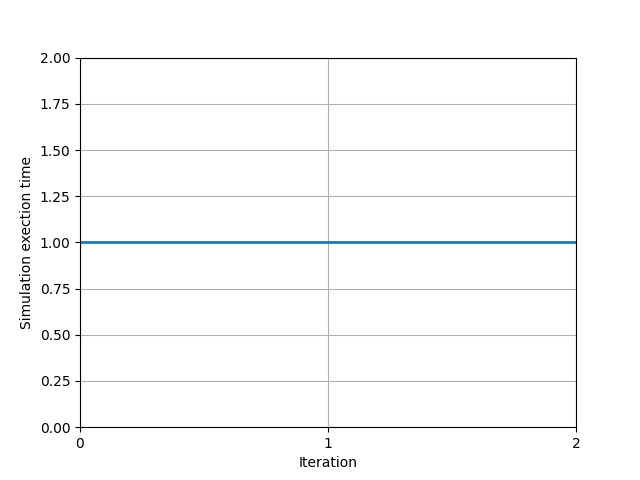
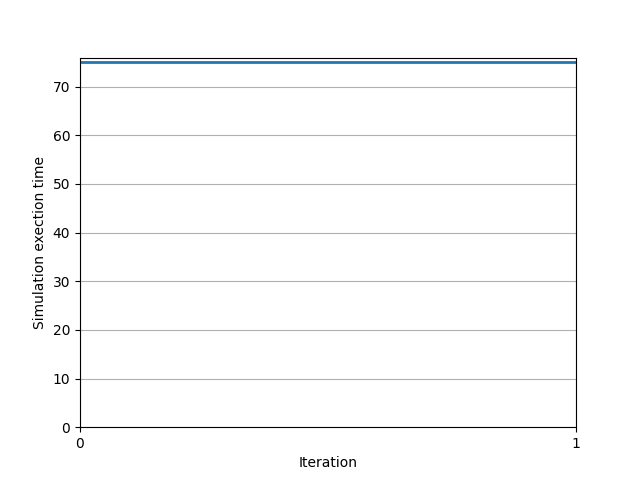
averge mean from predefined output path is set

diff --git a/src/tools/coordinator.py b/src/tools/coordinator.py
@@ -1,3 +1,7 @@
+from tools.logger import logger
+from tools.config_reader import Config
+from pathlib import Path
+
 import argparse
 import os
 import shutil
@@ -10,20 +14,17 @@ sys.path.append('/workspaces/hyper-heuristic-dse-2.0/src/external/simulation_mod
 import experiments
 import experiment_campaign
 
-from logger import logger
-from config_reader import Config
-
 
 class HeuristicSimulationCoordinator:
     
     def __init__(self, config_path):
         
         # Set up the logger.
-        self.logger = ("coordinator", "/workspaces/hyper-heuristic-dse-2.0/data/raw/heuristic_run/logs")
+        self.logger = logger("coordinator", Path("/workspaces/hyper-heuristic-dse-2.0/data/raw/heuristic_run/logs"))
 
         # Read the config file.
         self.logger.info("Reading config file...")
-        self.conf = Config("/workspaces/hyper-heuristic-dse-2.0/config/coordinator.json", "/workspaces/hyper-heuristic-dse-2.0/data/raw/heuristic_run/logs", "config_coordinator")
+        self.conf = Config(Path("/workspaces/hyper-heuristic-dse-2.0/config/config_coordinator.json"), Path("/workspaces/hyper-heuristic-dse-2.0/data/raw/heuristic_run/logs"), "config_coordinator")
     
     '''
         Transform the scalar files generated by the simulation model into a csv format.
@@ -42,7 +43,7 @@ class HeuristicSimulationCoordinator:
         scavetool_command = "opp_scavetool export -F CSV-R -o x.csv *.sca"
 
         # Attempt to transform the scalar files in the given results directory.
-        self.logger.info("Transforming scalar files to csv in directory: " + sim_results_directory)
+        self.logger.info(f"Transforming scalar files to csv in directory: {sim_results_directory}")
         try:
             subprocess.run(scavetool_command, shell=True, cwd=sim_results_directory, check=True)
         except subprocess.CalledProcessError as e:
@@ -52,7 +53,7 @@ class HeuristicSimulationCoordinator:
 
         # Load the transformed outputted data from the simulation run.
         uid = "343ddead4455987aae4c6e56e3cb132a"
-        csv_file_path = self.conf.tryGet(os.path.join("results_base", uid, "x.csv"))
+        csv_file_path = os.path.join(self.conf.tryGet("results_base"), uid, "x.csv")
         df = pd.read_csv(csv_file_path)
 
         # Filter rows with 'type' column equal to 'statistic' and drop unnecessary columns

diff --git a/src/external/simulation_model/workflow.py b/src/external/simulation_model/workflow.py
@@ -50,10 +50,10 @@ def main():
 
     num_sims = 1
 
-    sim_instances = [create_sim_pdes_comm(config, dummy_sim_path, id, inet_base) for id in range(num_sims)]
-    # sim_instances = [create_tictoc(config, dummy_sim_path, id, inet_base) for id in range(num_sims)]
+    # sim_instances = [create_sim_pdes_comm(config, dummy_sim_path, id, inet_base) for id in range(num_sims)]
+    sim_instances = [create_tictoc(config, dummy_sim_path, id, inet_base) for id in range(num_sims)]
     # sim_instances = [create_sim_custom_dummy(config, dummy_sim_path, id, inet_base) for id in range(num_sims)]
-    # sim_instances = [create_sim_seq_comm(config, dummy_sim_path, id, inet_base) for id in range(num_sims)]
+    # sim_instances = [create_sim_inet_lans(config, dummy_sim_path, id, inet_base) for id in range(num_sims)]
 
     m = Manager(args.workflowConfigFile, args.workflowLogsFolder)
 

diff --git a/src/main.py b/src/main.py
@@ -29,23 +29,12 @@ def main(base_path):
     # For all default operators see "~data/external/default_operators.txt"
     heur = [
         (
-            'genetic_crossover', 
-            {
-                'pairing': 'random', 
-                'crossover': 'single', 
-                'mating_pool_factor': 0.4
-            }, 
-            'all'
-        ), 
-        (
-            'genetic_mutation', 
+            'random_search', 
             {
                 'scale': 1.0, 
-                'elite_rate': 0.1, 
-                'mutation_rate': 0.25, 
                 'distribution': 'uniform'
             }, 
-            'all'
+            'greedy'
         )
     ]
 
